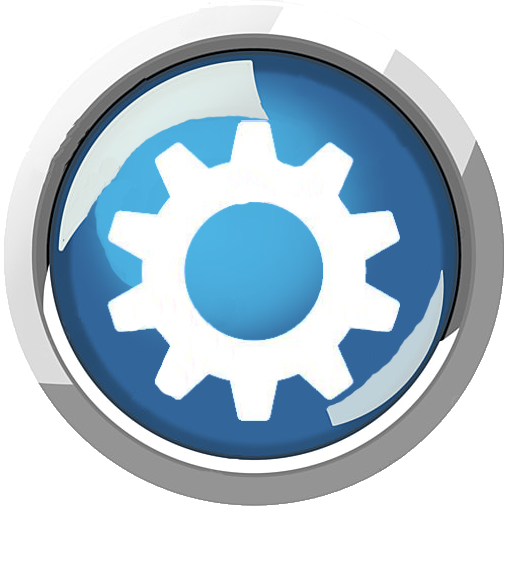
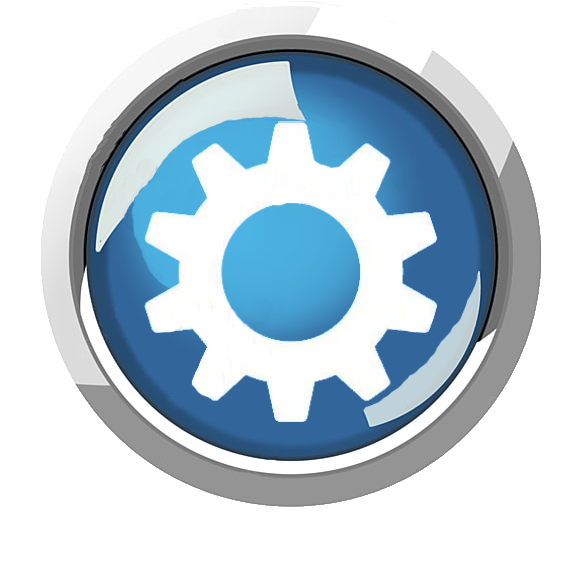
Modification des icones du bouton des options, des règles et de la suggestion d'un coup.

diff --git a/src/IHM/Graphique/Ecrans/EcranJeu.java b/src/IHM/Graphique/Ecrans/EcranJeu.java
@@ -163,7 +163,7 @@ public class EcranJeu extends Ecran implements MouseListener, MouseMotionListene
         suggestion.setVisible(false);
 
         // Initialisation du bouton des regles
-        regles = new JButtonIcon(Images.chargerImage("/boutons/Regles.png"), 70);
+        regles = new JButtonIcon(Images.chargerImage("/icones/regles.png"), 70);
         regles.addActionListener(new ActionListener() {
             @Override
             public void actionPerformed(ActionEvent actionEvent) {

diff --git a/src/IHM/Graphique/Ecrans/EcranAccueil.java b/src/IHM/Graphique/Ecrans/EcranAccueil.java
@@ -93,7 +93,7 @@ public class EcranAccueil extends Ecran {
             }
         });
 
-        rules = new JButtonIcon(Images.chargerImage("/boutons/Regles.png"), 150, 150);
+        rules = new JButtonIcon(Images.chargerImage("/icones/regles.png"), 150, 150);
         rules.addActionListener(new ActionListener() {
             @Override
             public void actionPerformed(ActionEvent e) {
